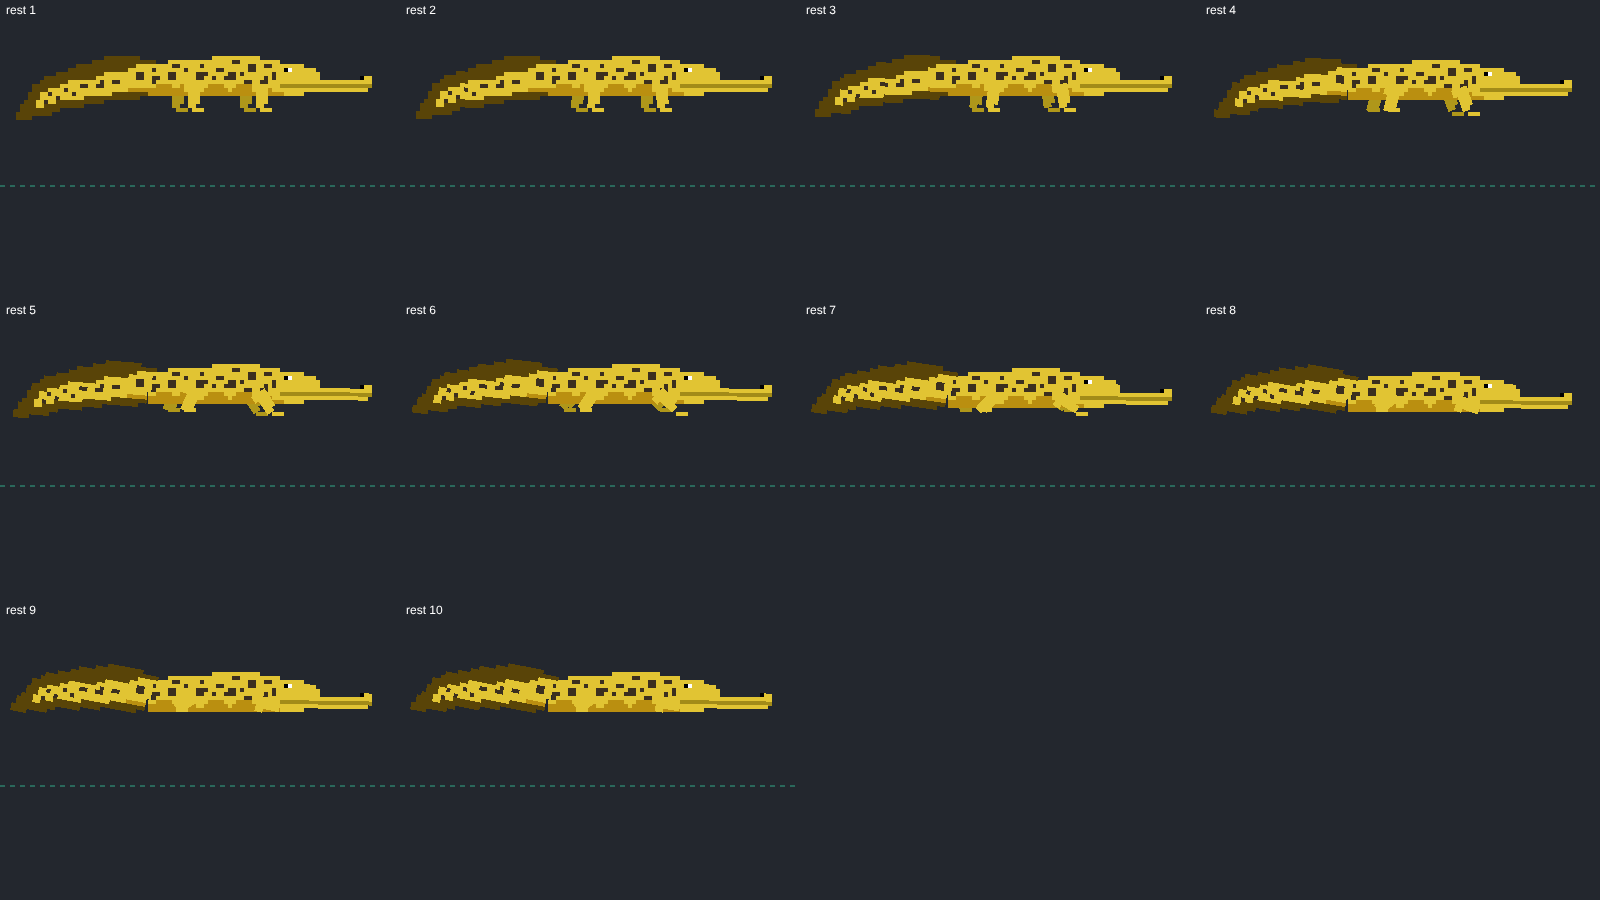
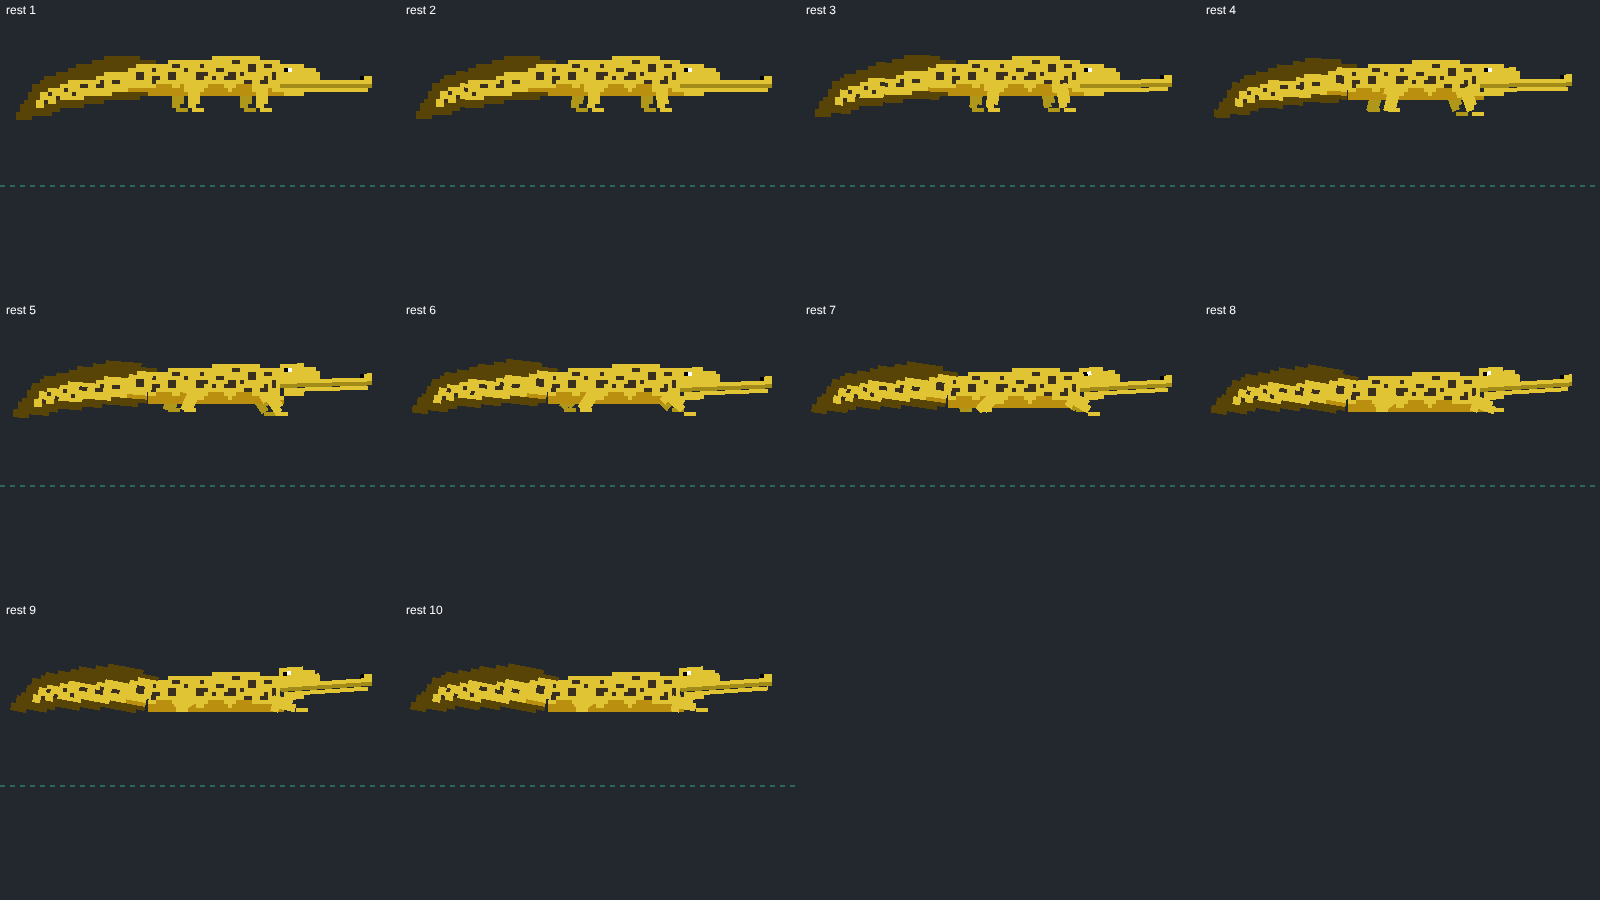
Prionosuchus rest: lift the chin and reach the forelegs forward so they show
Claude-Session: https://claude.ai/code/session_015JLq47juea23eoT4cTHt9T

diff --git a/js/rigs.js b/js/rigs.js
@@ -14,7 +14,7 @@ const RIG_BLEND = .35;   // seconds to ease from walking to idling and back
 const RIG_IDLE = {chance:.35, gap:[6, 14]};   // the idle clip plays when an animal stops with this chance, and again after this many seconds (a range) of standing in one place
 const RIGS = {};
 // rigs: one line a species, written by tools/rigtogame.py
-RIGS.prio = {"w":100,"h":75,"parts":[{"n":"PRIO_BEHIND_LEGS_FRONT","img":"sprites/prio/prio-behind-legs-front.png","ix":-2,"iy":0,"iw":4,"ih":6,"p":4,"x":7,"y":1,"f":0},{"n":"PRIO_BEHIND_FEET_FRONT","img":"sprites/prio/prio-behind-feet-front.png","ix":0,"iy":0,"iw":3,"ih":1,"p":0,"x":0,"y":6,"f":0},{"n":"PRIO_BEHIND_LEGS_BACK","img":"sprites/prio/prio-behind-legs-back.png","ix":-2,"iy":0,"iw":4,"ih":6,"p":4,"x":-10,"y":1,"f":0},{"n":"PRIO_BEHIND_FEET_BACK","img":"sprites/prio/prio-behind-feet-back.png","ix":0,"iy":0,"iw":3,"ih":1,"p":2,"x":0,"y":6,"f":0},{"n":"PRIO_BODY","img":"sprites/prio/prio-body.png","ix":-17,"iy":-6,"iw":34,"ih":10,"p":-1,"x":54,"y":38,"f":0},{"n":"PRIO_HEAD","img":"sprites/prio/prio-head.png","ix":0,"iy":-4,"iw":23,"ih":6,"p":4,"x":16,"y":0,"f":0},{"n":"PRIO_JAW","img":"sprites/prio/prio-jaw.png","ix":-1,"iy":0,"iw":21,"ih":2,"p":5,"x":2,"y":2,"f":0},{"n":"PRIO_TAIL","img":"sprites/prio/prio-tail.png","ix":-34,"iy":-5,"iw":35,"ih":16,"p":4,"x":-16,"y":-1,"f":0},{"n":"PRIO_NEAR_LEGS_FRONT","img":"sprites/prio/prio-near-legs-front.png","ix":-2,"iy":-1,"iw":4,"ih":6,"p":4,"x":11,"y":2,"f":0},{"n":"PRIO_NEAR_LEGS_BACK","img":"sprites/prio/prio-near-legs-back.png","ix":-2,"iy":-1,"iw":4,"ih":6,"p":4,"x":-6,"y":2,"f":0},{"n":"PRIO_NEAR_FEET_BACK","img":"sprites/prio/prio-near-feet-back.png","ix":0,"iy":0,"iw":3,"ih":1,"p":9,"x":0,"y":5,"f":0},{"n":"PRIO_NEAR_FEET_FRONT","img":"sprites/prio/prio-near-feet-front.png","ix":0,"iy":0,"iw":3,"ih":1,"p":8,"x":0,"y":5,"f":0}],"clips":{"walk":{"frames":[{"7":2.6,"5":1.1,"9":[-26.1,0,0.5],"10":26.1,"8":[-7.2,0,0],"11":7.2,"2":[9,0,0.1],"3":-9,"0":[18.5,0,-0.3],"1":-18.5},{"4":[0,0,0.5],"7":4.4,"5":0.2,"9":[-16.4,0,0.2],"10":16.4,"8":1.8,"11":-1.8,"2":[16.7,0,0.2],"3":-16.7,"0":[-5.5,0,-1.1],"1":5.5},{"7":3.6,"5":-0.8,"9":[-7.2,0,0],"10":7.2,"8":[10.9,0,0.1],"11":-10.9,"2":[18.5,0,-0.3],"3":-18.5,"0":[-21.5,0,0.4],"1":21.5},{"4":[0,0,-0.5],"7":0.7,"5":-1.4,"9":1.8,"10":-1.8,"8":[20.2,0,0.3],"11":-20.2,"2":[-5.5,0,-1.1],"3":5.5,"0":[-13.6,0,0.2],"1":13.6},{"7":-2.6,"5":-1.1,"9":[10.9,0,0.1],"10":-10.9,"8":[22.4,0,-0.2],"11":-22.4,"2":[-21.5,0,0.4],"3":21.5,"0":[-6,0,0],"1":6},{"4":[0,0,0.5],"7":-4.4,"5":-0.2,"9":[20.2,0,0.3],"10":-20.2,"8":[-6.5,0,-1.1],"11":6.5,"2":[-13.6,0,0.2],"3":13.6,"0":1.5,"1":-1.5},{"7":-3.6,"5":0.8,"9":[22.4,0,-0.2],"10":-22.4,"8":[-26.1,0,0.5],"11":26.1,"2":[-6,0,0],"3":6,"0":[9,0,0.1],"1":-9},{"4":[0,0,-0.5],"7":-0.7,"5":1.4,"9":[-6.5,0,-1.1],"10":6.5,"8":[-16.4,0,0.2],"11":16.4,"2":1.5,"3":-1.5,"0":[16.7,0,0.2],"1":-16.7}]},"idle":{"fps":8,"frames":[{},{"5":-1},{"6":5,"5":-3},{"6":12,"5":-4},{"6":18,"5":-4,"7":1},{"6":18,"5":-4,"7":3},{"6":14,"5":-3,"7":6},{"6":4,"5":-1,"7":5},{"6":-1,"5":1,"7":2},{},{},{}]},"rest":{"fps":8,"frames":[{},{"4":[0,0,0.1],"7":0.3,"5":0,"9":[1.8,0,-0.1],"10":-1.8,"8":-2.4,"11":2.4,"2":[1.8,0,-0.1],"3":-1.8,"0":-2.4,"1":2.4},{"4":[0,0,0.5],"7":1.3,"5":0.1,"9":[6.8,0,-0.2],"10":-6.8,"8":-9.4,"11":9.4,"2":[6.8,0,-0.2],"3":-6.8,"0":-9.4,"1":9.4},{"4":[0,0,1],"7":2.8,"5":0.2,"9":[14.5,0,-0.5],"10":-14.5,"8":-20,"11":20,"2":[14.5,0,-0.5],"3":-14.5,"0":-20,"1":20},{"4":[0,0,1.6],"7":4.5,"5":0.4,"9":[24,0,-0.8],"10":-24,"8":-33,"11":33,"2":[24,0,-0.8],"3":-24,"0":-33,"1":33},{"4":[0,0,2.4],"7":6.5,"5":0.6,"9":[34,0,-1.2],"10":-34,"8":-47,"11":47,"2":[34,0,-1.2],"3":-34,"0":-47,"1":47},{"4":[0,0,3],"7":8.2,"5":0.8,"9":[43.5,0,-1.5],"10":-43.5,"8":-60,"11":60,"2":[43.5,0,-1.5],"3":-43.5,"0":-60,"1":60},{"4":[0,0,3.5],"7":9.7,"5":0.9,"9":[51.2,0,-1.8],"10":-51.2,"8":-70.6,"11":70.6,"2":[51.2,0,-1.8],"3":-51.2,"0":-70.6,"1":70.6},{"4":[0,0,3.9],"7":10.7,"5":1,"9":[56.2,0,-1.9],"10":-56.2,"8":-77.6,"11":77.6,"2":[56.2,0,-1.9],"3":-56.2,"0":-77.6,"1":77.6},{"4":[0,0,4],"7":11,"5":1,"9":[58,0,-2],"10":-58,"8":-80,"11":80,"2":[58,0,-2],"3":-58,"0":-80,"1":80}]}}};
+RIGS.prio = {"w":100,"h":75,"parts":[{"n":"PRIO_BEHIND_LEGS_FRONT","img":"sprites/prio/prio-behind-legs-front.png","ix":-2,"iy":0,"iw":4,"ih":6,"p":4,"x":7,"y":1,"f":0},{"n":"PRIO_BEHIND_FEET_FRONT","img":"sprites/prio/prio-behind-feet-front.png","ix":0,"iy":0,"iw":3,"ih":1,"p":0,"x":0,"y":6,"f":0},{"n":"PRIO_BEHIND_LEGS_BACK","img":"sprites/prio/prio-behind-legs-back.png","ix":-2,"iy":0,"iw":4,"ih":6,"p":4,"x":-10,"y":1,"f":0},{"n":"PRIO_BEHIND_FEET_BACK","img":"sprites/prio/prio-behind-feet-back.png","ix":0,"iy":0,"iw":3,"ih":1,"p":2,"x":0,"y":6,"f":0},{"n":"PRIO_BODY","img":"sprites/prio/prio-body.png","ix":-17,"iy":-6,"iw":34,"ih":10,"p":-1,"x":54,"y":38,"f":0},{"n":"PRIO_HEAD","img":"sprites/prio/prio-head.png","ix":0,"iy":-4,"iw":23,"ih":6,"p":4,"x":16,"y":0,"f":0},{"n":"PRIO_JAW","img":"sprites/prio/prio-jaw.png","ix":-1,"iy":0,"iw":21,"ih":2,"p":5,"x":2,"y":2,"f":0},{"n":"PRIO_TAIL","img":"sprites/prio/prio-tail.png","ix":-34,"iy":-5,"iw":35,"ih":16,"p":4,"x":-16,"y":-1,"f":0},{"n":"PRIO_NEAR_LEGS_FRONT","img":"sprites/prio/prio-near-legs-front.png","ix":-2,"iy":-1,"iw":4,"ih":6,"p":4,"x":11,"y":2,"f":0},{"n":"PRIO_NEAR_LEGS_BACK","img":"sprites/prio/prio-near-legs-back.png","ix":-2,"iy":-1,"iw":4,"ih":6,"p":4,"x":-6,"y":2,"f":0},{"n":"PRIO_NEAR_FEET_BACK","img":"sprites/prio/prio-near-feet-back.png","ix":0,"iy":0,"iw":3,"ih":1,"p":9,"x":0,"y":5,"f":0},{"n":"PRIO_NEAR_FEET_FRONT","img":"sprites/prio/prio-near-feet-front.png","ix":0,"iy":0,"iw":3,"ih":1,"p":8,"x":0,"y":5,"f":0}],"clips":{"walk":{"frames":[{"7":2.6,"5":1.1,"9":[-26.1,0,0.5],"10":26.1,"8":[-7.2,0,0],"11":7.2,"2":[9,0,0.1],"3":-9,"0":[18.5,0,-0.3],"1":-18.5},{"4":[0,0,0.5],"7":4.4,"5":0.2,"9":[-16.4,0,0.2],"10":16.4,"8":1.8,"11":-1.8,"2":[16.7,0,0.2],"3":-16.7,"0":[-5.5,0,-1.1],"1":5.5},{"7":3.6,"5":-0.8,"9":[-7.2,0,0],"10":7.2,"8":[10.9,0,0.1],"11":-10.9,"2":[18.5,0,-0.3],"3":-18.5,"0":[-21.5,0,0.4],"1":21.5},{"4":[0,0,-0.5],"7":0.7,"5":-1.4,"9":1.8,"10":-1.8,"8":[20.2,0,0.3],"11":-20.2,"2":[-5.5,0,-1.1],"3":5.5,"0":[-13.6,0,0.2],"1":13.6},{"7":-2.6,"5":-1.1,"9":[10.9,0,0.1],"10":-10.9,"8":[22.4,0,-0.2],"11":-22.4,"2":[-21.5,0,0.4],"3":21.5,"0":[-6,0,0],"1":6},{"4":[0,0,0.5],"7":-4.4,"5":-0.2,"9":[20.2,0,0.3],"10":-20.2,"8":[-6.5,0,-1.1],"11":6.5,"2":[-13.6,0,0.2],"3":13.6,"0":1.5,"1":-1.5},{"7":-3.6,"5":0.8,"9":[22.4,0,-0.2],"10":-22.4,"8":[-26.1,0,0.5],"11":26.1,"2":[-6,0,0],"3":6,"0":[9,0,0.1],"1":-9},{"4":[0,0,-0.5],"7":-0.7,"5":1.4,"9":[-6.5,0,-1.1],"10":6.5,"8":[-16.4,0,0.2],"11":16.4,"2":1.5,"3":-1.5,"0":[16.7,0,0.2],"1":-16.7}]},"idle":{"fps":8,"frames":[{},{"5":-1},{"6":5,"5":-3},{"6":12,"5":-4},{"6":18,"5":-4,"7":1},{"6":18,"5":-4,"7":3},{"6":14,"5":-3,"7":6},{"6":4,"5":-1,"7":5},{"6":-1,"5":1,"7":2},{},{},{}]},"rest":{"fps":8,"frames":[{},{"4":[0,0,0.1],"7":0.3,"5":[-0.1,0,-0.1],"9":[1.8,0,-0.1],"10":-1.8,"8":[-2.4,0.1,0],"11":2.4,"2":[1.8,0,-0.1],"3":-1.8,"0":[-2.4,0.1,0],"1":2.4},{"4":[0,0,0.5],"7":1.3,"5":[-0.5,0,-0.3],"9":[6.8,0,-0.2],"10":-6.8,"8":[-9.4,0.5,0],"11":9.4,"2":[6.8,0,-0.2],"3":-6.8,"0":[-9.4,0.5,0],"1":9.4},{"4":[0,0,1],"7":2.8,"5":[-1,0,-0.8],"9":[14.5,0,-0.5],"10":-14.5,"8":[-20,1,0],"11":20,"2":[14.5,0,-0.5],"3":-14.5,"0":[-20,1,0],"1":20},{"4":[0,0,1.6],"7":4.5,"5":[-1.6,0,-1.2],"9":[24,0,-0.8],"10":-24,"8":[-33,1.6,0],"11":33,"2":[24,0,-0.8],"3":-24,"0":[-33,1.6,0],"1":33},{"4":[0,0,2.4],"7":6.5,"5":[-2.4,0,-1.8],"9":[34,0,-1.2],"10":-34,"8":[-47,2.4,0],"11":47,"2":[34,0,-1.2],"3":-34,"0":[-47,2.4,0],"1":47},{"4":[0,0,3],"7":8.2,"5":[-3,0,-2.2],"9":[43.5,0,-1.5],"10":-43.5,"8":[-60,3,0],"11":60,"2":[43.5,0,-1.5],"3":-43.5,"0":[-60,3,0],"1":60},{"4":[0,0,3.5],"7":9.7,"5":[-3.5,0,-2.6],"9":[51.2,0,-1.8],"10":-51.2,"8":[-70.6,3.5,0],"11":70.6,"2":[51.2,0,-1.8],"3":-51.2,"0":[-70.6,3.5,0],"1":70.6},{"4":[0,0,3.9],"7":10.7,"5":[-3.9,0,-2.9],"9":[56.2,0,-1.9],"10":-56.2,"8":[-77.6,3.9,0],"11":77.6,"2":[56.2,0,-1.9],"3":-56.2,"0":[-77.6,3.9,0],"1":77.6},{"4":[0,0,4],"7":11,"5":[-4,0,-3],"9":[58,0,-2],"10":-58,"8":[-80,4,0],"11":80,"2":[58,0,-2],"3":-58,"0":[-80,4,0],"1":80}]}}};
 RIGS.plat = {"w":100,"h":75,"parts":[{"n":"PLATE_HIND_FOOT","img":"sprites/plat/plate-hind-foot.png","ix":-1,"iy":0,"iw":6,"ih":2,"p":1,"x":-8,"y":6,"f":0},{"n":"PLATE_HIND_LEG","img":"sprites/plat/plate-hind-leg.png","ix":-10,"iy":-2,"iw":11,"ih":8,"p":2,"x":2,"y":10,"f":0},{"n":"PLATE_HIND_THIGH","img":"sprites/plat/plate-hind-thigh.png","ix":-4,"iy":-3,"iw":9,"ih":13,"p":-1,"x":60,"y":50,"f":0},{"n":"PLATE_HIND_FOREARM","img":"sprites/plat/plate-hind-forearm.png","ix":-3,"iy":-2,"iw":5,"ih":13,"p":4,"x":10,"y":3,"f":0},{"n":"PLATE_BODY","img":"sprites/plat/plate-body.png","ix":-19,"iy":-7,"iw":36,"ih":13,"p":-1,"x":63,"y":49,"f":0},{"n":"PLATE_NECK","img":"sprites/plat/plate-neck.png","ix":0,"iy":-5,"iw":10,"ih":8,"p":4,"x":17,"y":-1,"f":0},{"n":"PLATE_JAW","img":"sprites/plat/plate-jaw.png","ix":-1,"iy":0,"iw":7,"ih":1,"p":7,"x":1,"y":1,"f":0},{"n":"PLATE_HEAD","img":"sprites/plat/plate-head.png","ix":0,"iy":-3,"iw":9,"ih":5,"p":5,"x":10,"y":-2,"f":0},{"n":"PLATE_TAIL","img":"sprites/plat/plate-tail.png","ix":-43,"iy":-5,"iw":45,"ih":12,"p":4,"x":-19,"y":-2,"f":0},{"n":"PLATE_NEAR_FOREARM","img":"sprites/plat/plate-near-forearm.png","ix":-3,"iy":-2,"iw":5,"ih":13,"p":4,"x":10,"y":3,"f":0},{"n":"PLATE_NEAR_LEG","img":"sprites/plat/plate-near-leg.png","ix":-10,"iy":-2,"iw":11,"ih":8,"p":12,"x":2,"y":10,"f":0},{"n":"PLATE_NEAR_FOOT","img":"sprites/plat/plate-near-foot.png","ix":-1,"iy":0,"iw":6,"ih":2,"p":10,"x":-8,"y":6,"f":0},{"n":"PLATE_NEAR_THIGH","img":"sprites/plat/plate-near-thigh.png","ix":-4,"iy":-3,"iw":9,"ih":13,"p":-1,"x":60,"y":50,"f":0}],"clips":{"walk":{"frames":[{"4":[0,0,0.9],"8":2.2,"5":-1.5,"7":1.5,"12":-33,"10":18.6,"11":14.4,"9":4.3,"2":12.2,"1":-4.7,"0":-7.5,"3":-4.3},{"4":[0,0,-0.5],"8":-1.1,"5":0.8,"7":-0.8,"12":-14.7,"10":4.8,"11":9.9,"2":0.4,"1":13.1,"0":-13.5},{"4":[0,0,-0.5],"8":-1.1,"5":0.7,"7":-0.7,"12":-0.1,"10":-3.2,"11":3.3,"9":-4.3,"2":-31.2,"1":27.8,"0":3.3,"3":4.3,"6":9},{"4":[0,0,0.9],"8":2.2,"5":-1.5,"7":1.5,"12":12.2,"10":-4.7,"11":-7.5,"9":-4.3,"2":-33,"1":18.6,"0":14.4,"3":4.3,"6":9},{"4":[0,0,-0.5],"8":-1.1,"5":0.8,"7":-0.8,"12":0.4,"10":13.1,"11":-13.5,"2":-14.7,"1":4.8,"0":9.9},{"4":[0,0,-0.5],"8":-1.1,"5":0.8,"7":-0.8,"12":-31.2,"10":27.8,"11":3.3,"9":4.3,"2":-0.1,"1":-3.2,"0":3.3,"3":-4.3}]},"idle":{"fps":6,"frames":[{"2":-25.5,"1":10,"0":16,"9":-20},{"2":[-26.5,0,-1],"1":[10,0,1],"0":16,"4":-10.5,"12":[11,0,-1],"5":-6.5,"7":5,"8":9.5,"6":5,"10":[-11,0,1],"9":6,"3":-6},{"2":[-26.5,0,-1],"1":[10,0,1],"0":16,"4":-24.5,"12":[11,0,-1],"5":-4.5,"7":16,"8":18,"6":4,"10":[-11,0,1],"9":-14,"3":-5},{"2":[-26.5,0,-1],"1":[10,0,1],"0":16,"4":-29.5,"12":[11,0,-1],"5":-16,"7":39,"8":25.5,"10":[-11,0,1],"9":-14,"3":-5},{"2":[-26.5,0,-1],"1":[10,0,1],"0":16,"4":-29.5,"12":[11,0,-1],"5":-33,"7":57,"8":25.5,"10":[-11,0,1],"9":15,"3":0.5,"6":14.5},{"2":[-26.5,0,-1],"1":[10,0,1],"0":16,"4":-29.5,"12":[11,0,-1],"5":-33,"7":57,"8":25.5,"10":[-11,0,1],"9":-22,"3":-7},{"2":[-26.5,0,-1],"1":[10,0,1],"0":16,"4":-29.5,"12":[11,0,-1],"5":-8.5,"7":57,"8":25.5,"10":[-11,0,1],"9":-38.5,"3":6},{"2":[-26.5,0,-1],"1":[10,0,1],"0":16,"4":-29.5,"12":[11,0,-1],"5":17,"7":57,"8":25.5,"10":[-11,0,1],"9":[-63.5,1,1],"3":14},{"2":[-26.5,0,-1],"1":[10,0,1],"0":16,"4":-21,"12":[11,0,-1],"5":34.5,"7":75.5,"8":25.5,"10":[-11,0,1],"9":[-63.5,1,1],"3":17},{"2":[-26.5,0,-1],"1":[10,0,1],"0":16,"4":-21,"12":[11,0,-1],"5":43,"7":84,"8":25.5,"10":[-11,0,1],"9":[-67,1,1],"3":17,"6":[0.5,0,-0.5]},{"2":[-26.5,0,-1],"1":[10,0,1],"0":16,"4":-21,"12":[11,0,-1],"5":43,"7":84,"8":25.5,"10":[-11,0,1],"9":[-54,1,1],"3":17,"6":[0,0,-0.5]},{"2":[-26.5,0,-1],"1":[10,0,1],"0":16,"4":-21,"12":[11,0,-1],"5":43,"7":84,"8":25.5,"10":[-11,0,1],"9":[-68,1,1],"3":17,"6":[0,0,-0.5]},{"2":[-26.5,0,-1],"1":[10,0,1],"0":16,"4":-21,"12":[11,0,-1],"5":43,"7":84,"8":25.5,"10":[-11,0,1],"9":[-57.5,1,1],"3":17,"6":[0,0,-0.5]},{"2":[-26.5,0,-1],"1":[10,0,1],"0":16,"4":-21,"12":[11,0,-1],"5":26,"7":49,"8":25.5,"10":[-11,0,1],"9":-42.5,"3":17,"6":[0,0,-0.5]},{"2":[-26.5,0,-1],"1":[10,0,1],"0":16,"4":-15,"12":[11,0,-1],"5":12.5,"8":25.5,"10":[-11,0,1],"9":-42.5,"3":7,"6":[0,0,-0.5],"7":25.5},{"2":[-26.5,0,-1],"1":[10,0,1],"0":16,"4":-11.5,"12":[11,0,-1],"5":12.5,"8":25.5,"10":[-11,0,1],"9":-42.5,"3":7,"6":[0,0,-0.5],"7":25.5},{"0":16,"1":[10,0,0.7],"2":[-26.2,0,-0.7],"3":4.7,"4":-7.7,"5":8.3,"6":[0,0,-0.3],"7":17,"8":17,"9":-35,"10":[-7.3,0,0.7],"12":[7.3,0,-0.7]},{"0":16,"1":[10,0,0.3],"2":[-25.8,0,-0.3],"3":2.3,"4":-3.8,"5":4.2,"6":[0,0,-0.2],"7":8.5,"8":8.5,"9":-27.5,"10":[-3.7,0,0.3],"12":[3.7,0,-0.3]}]},"rest":{"fps":3,"frames":[{"12":25,"10":-24,"2":-22.5,"1":11,"0":12,"9":19,"3":-8.5},{"12":25,"10":-24,"2":-22.5,"1":11,"0":12,"9":-24.5,"3":-8.5,"5":-12.5,"7":21.5,"4":-7},{"12":25,"10":-24,"2":-22.5,"1":11,"0":12,"9":-37,"3":-21.5,"5":-12.5,"7":21.5,"4":-7,"6":9},{"12":25,"10":-24,"2":-22.5,"1":11,"0":12,"9":-39.5,"3":-21.5,"5":-12.5,"7":21.5,"4":-7,"6":30},{"12":25,"10":-24,"2":-22.5,"1":11,"0":12,"9":-25,"3":-21.5,"5":-12.5,"7":21.5,"4":-7,"6":10.5},{"12":25,"10":-24,"2":[-22.5,0,1],"1":[25,0,1],"0":-2,"9":-39,"3":-21.5,"5":-12.5,"7":21.5,"4":[0,0,1]},{"12":9,"10":-6,"2":[-17.5,0,2],"1":[25,0,1],"0":[-8,0,-1],"9":-46.5,"3":-26.5,"5":-26,"7":29,"4":[0,0,2]},{"12":[9,0,2],"10":6,"2":[-28.5,0,4],"1":[43,0,1],"0":[-14,0,-1],"9":[-46.5,0,1],"3":[-12.5,0,1],"5":-38,"7":40,"4":[0,0,3],"11":-14},{"12":[9,0,4],"10":16.5,"2":[-28.5,0,4],"1":[49,0,2],"0":[-21,1,-1],"9":[-43.5,0,1],"3":[-33.5,0,1],"5":-47,"7":40,"4":[6.5,0,4],"11":-25},{"12":[9,0,4],"10":16.5,"2":[-28.5,0,4],"1":[49,0,2],"0":[-21,1,-1],"9":[-70,0,1],"3":[-71,0,1],"5":-47,"7":40,"4":[8.5,0,7],"11":-25},{"12":[9,0,4],"10":17,"2":[-28.5,0,5],"1":[49,0,2],"0":[-21,1,-2],"9":[-88,0,1],"3":[-92,0,1],"5":-47,"7":40,"4":[5,0,10],"11":-25},{"12":[-51.5,0,5],"10":49,"2":[-28.5,0,4],"1":[56,0,2],"9":[-88,0,1],"3":[-92,0,1],"5":-47,"7":46.5,"4":[0.5,0,10],"11":4,"0":[-26.5,0,1]},{"12":[-86,0,9],"10":[83,-2,0],"2":[-90,-3,8],"1":[56,0,2],"9":[-83.5,0,1],"3":[-88,0,1],"5":-47,"7":46.5,"4":[0.5,0,11],"11":4,"0":[34,0,1]},{"12":[-86,0,9],"10":[83,-2,0],"2":[-90,0,12],"1":[97,0,2],"9":-89,"3":-90,"5":-55,"7":53.5,"4":[0.5,0,13],"11":4,"0":[-26.5,0,1]},{"12":[-86,0,9],"10":[83,-2,0],"2":[-90,0,12],"1":[97,0,2],"9":-89,"3":-90,"5":-55,"7":53.5,"4":[0.5,0,13],"11":4,"0":[-26.5,0,1]}]}}};
 
 const rigOf = sp => (rigsOn && SPRITES[sp] && SPRITES[sp].rig && RIGS[sp]) ? rigPrep(RIGS[sp]) : null;

diff --git a/tools/rigger/prionosuchus/gen-clips.js b/tools/rigger/prionosuchus/gen-clips.js
@@ -6,7 +6,7 @@
 const { chromium } = require('/opt/node22/lib/node_modules/playwright');
 const fs = require('fs'), path = require('path');
 const here = __dirname, OUT = path.resolve(process.argv[2] || here);
-const K = Object.assign({N:8, S:4.4, ds:.7, lift:1.2, bob:.45, tail:4.5, head:1.4, fps:8, splootF:80, splootDy:0, tuckH:58, tuckDy:-2, lie:4}, JSON.parse(process.argv[3] || '{}'));
+const K = Object.assign({N:8, S:4.4, ds:.7, lift:1.2, bob:.45, tail:4.5, head:1.4, fps:8, splootF:80, splootDy:0, tuckH:58, tuckDy:-2, lie:4, headR:-4, headDy:-3, splootDx:4}, JSON.parse(process.argv[3] || '{}'));
 fs.mkdirSync(OUT, {recursive:true});
 (async()=>{
  const proj = JSON.parse(fs.readFileSync(path.join(here, 'prionosuchus-rig.json'), 'utf8'));
@@ -49,12 +49,12 @@ fs.mkdirSync(OUT, {recursive:true});
     const e = sm(i/9), pose = {};
     pose[ID.body] = {r:0, dx:0, dy:rd(K.lie*e)};
     pose[ID.tail] = {r:rd(11*e), dx:0, dy:0};
-    pose[ID.head] = {r:rd(1*e), dx:0, dy:0};
+    pose[ID.head] = {r:rd(K.headR*e), dx:0, dy:rd(K.headDy*e)};   // chin lifted, so the forelegs show under it
     pose[ID.jaw] = {r:0, dx:0, dy:0};
     for(const [lg, ft] of ID.legs){
       const front = lg === 'n36' || lg === 'n46';   // front legs stretch forward along the ground (a sploot), hind legs tuck back
       const a = front ? -K.splootF : K.tuckH;
-      pose[lg] = {r:rd(a*e), dx:0, dy:rd((front ? K.splootDy : K.tuckDy)*e)}; pose[ft] = {r:rd(-a*e), dx:0, dy:0};
+      pose[lg] = {r:rd(a*e), dx:rd((front ? K.splootDx : 0)*e), dy:rd((front ? K.splootDy : K.tuckDy)*e)}; pose[ft] = {r:rd(-a*e), dx:0, dy:0};
     }
     rest.push(pose);
   }
